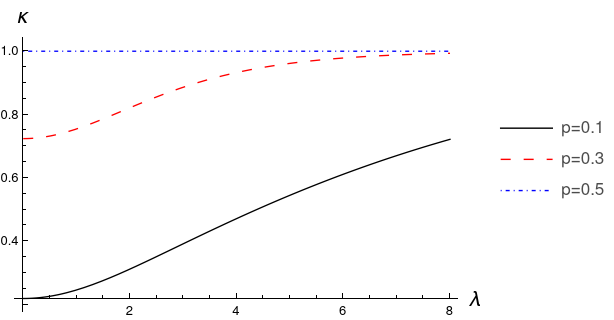
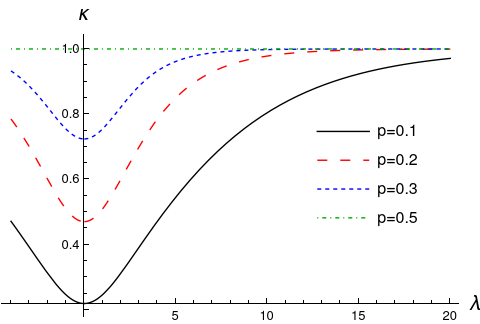
iinverted lagmult signs

diff --git a/notes/log/maxent/maxent_properties.tex b/notes/log/maxent/maxent_properties.tex
@@ -29,28 +29,29 @@ con $\hat{l}=(\sin{\beta},\cos{\beta},0)$, y satisface
 \end{equation}
 Construyendo $\mcV=V\otimes V$, podemos expresar al estado de máxima entropía de dos formas equivalentes,
 \begin{align}\label{eq:MaxEntTwoExpr}
-  \boxed{\varrho_{max}(\rho)=\frac{1}{Z}\text{exp}(-\lambda\mcV\hat{G}_{3}\mcV^{\dag})} && \boxed{\varrho_{max}(\rho)=\frac{1}{Z}\text{exp}(-\sum_{i}\lambda_{i}\hat{G}_{i})}
-\end{align} 
+  \boxed{\varrho_{max}(\rho)=\frac{1}{Z}\text{exp}(\lambda\mcV\hat{G}_{3}\mcV^{\dag})} && \boxed{\varrho_{max}(\rho)=\frac{1}{Z}\text{exp}(\sum_{i}\lambda_{i}\hat{G}_{i})}
+\end{align}
+Nótese que he invertido los signos de los multiplicadores de Lagrange. Esto es complétamente válido, y podría verse como que las restricciones se despejaron \textit{al revés} a la hora de aplicar el método de los multiplicadores de Lagrange.
 
 \subsection{El estado máxima entropía es separable}
 
 Sea $\rho_{z}$ un estado alineado en $z$ como en (\ref{eq:rhoz}), entonces por (\ref{eq:MaxEnt}) el estado de máxima entropía es:
 \begin{equation}\label{eq:MaxEntUgly}
-\varrho_{max}^{z}=\frac{1}{Z}\text{exp}(-\lambda\hat{G}_{3}),
+\varrho_{max}^{z}=\frac{1}{Z}\text{exp}(\lambda\hat{G}_{3}),
 \end{equation}
 donde $\hat{G}_{3}$ se define según (\ref{eq:Gop}). Como los dos términos que componen al operador comuntan entre sí, la exponencial puede separarse como
 \begin{align*}
-\varrho_{max}^{z}&=\frac{1}{Z}e^{-\lambda p\sigma_{3}\otimes\Id}e^{-\lambda(1-p)\Id\otimes\sigma_{3}}\\
-&=\frac{1}{Z}(e^{-\lambda p\sigma_{3}}\otimes\Id)( \Id\otimes e^{-\lambda(1-p)\sigma_{3}})\\
-&=\frac{1}{Z}(e^{-\lambda p\sigma_{3}}\otimes e^{-\lambda(1-p)\sigma_{3}}).\\
+\varrho_{max}^{z}&=\frac{1}{Z}e^{\lambda p\sigma_{3}\otimes\Id}e^{\lambda(1-p)\Id\otimes\sigma_{3}}\\
+&=\frac{1}{Z}(e^{\lambda p\sigma_{3}}\otimes\Id)( \Id\otimes e^{\lambda(1-p)\sigma_{3}})\\
+&=\frac{1}{Z}(e^{\lambda p\sigma_{3}}\otimes e^{\lambda(1-p)\sigma_{3}}).\\
 \end{align*}
 Si se separa a la función de partición como un producto de trazas $Z=Z_{1}Z_{2}$, al estado de máxima entropía se le puede escribir como:
 \begin{equation}\label{eq:MaxEntZ}
-\varrho_{max}^{z}=\frac{e^{-\lambda p\sigma_{3}}}{Z_{1}} \otimes \frac{e^{-\lambda(1-p)\sigma_{3}}}{Z_{2}}.
+\varrho_{max}^{z}=\frac{e^{\lambda p\sigma_{3}}}{Z_{1}} \otimes \frac{e^{\lambda(1-p)\sigma_{3}}}{Z_{2}}.
 \end{equation}
 Esto es válido para el estado alineado en $z$, pero retomando el resultado (\ref{eq:MaxEntTwoExpr}) y la relación (\ref{eq:VsigmazV}), el estado de máxima entropía compatible con un estado grueso arbitrario es
 \begin{equation}\label{eq:MaxEntSeparable}
-  \varrho_{max}=\frac{e^{-\lambda p(\hat{r}_{\rho}\cdot\vec{\sigma})}}{Z_{1}} \otimes \frac{e^{-\lambda(1-p)(\hat{r}_{\rho}\cdot\vec{\sigma})}}{Z_{2}}
+  \varrho_{max}=\frac{e^{\lambda p(\hat{r}_{\rho}\cdot\vec{\sigma})}}{Z_{1}} \otimes \frac{e^{\lambda(1-p)(\hat{r}_{\rho}\cdot\vec{\sigma})}}{Z_{2}}
 \end{equation}
 Por lo que el estado de máxima entropía compatible con un estado $\rho$ arbitrario es separable. Ahora, como las expresiones (\ref{eq:MaxEntTwoExpr}) son equivalentes, una vez más, usando (\ref{eq:VsigmazV}) podemos ver que
 \begin{align*}
@@ -65,7 +66,7 @@ así que
 \end{equation*}
 De tal forma que (\ref{eq:MaxEntSeparable}) puede escribirse en términos de los tres multiplicadores de Lagrange como:
 \begin{equation*}
-\varrho_{max}=\frac{e^{-p\sum_{i}\lambda_{i}\sigma_{i}}}{Z_{1}} \otimes \frac{e^{-(1-p)\sum_{i}\lambda_{i}\sigma_{i}}}{Z_{2}}
+\varrho_{max}=\frac{e^{p\sum_{i}\lambda_{i}\sigma_{i}}}{Z_{1}} \otimes \frac{e^{(1-p)\sum_{i}\lambda_{i}\sigma_{i}}}{Z_{2}}
 \end{equation*}
 ¿Qué significa que el estado de máxima entropía sea separable? ¿Qué interpretación tienen las matrices de densidad reducidad del estado de máxima entropía? La propiedad de separabilidad viene de que la información accesible al experimentalista no incluye las correlaciones entre los subsistemas. Los observables finos son combinaciones de operadores de la forma $\pauli{i}\otimes\Id$ y $\Id\otimes\pauli{j}$. Esto significa que lo que se reconstruye es una combinación lineal de las matrices de densidad reducidas correspondientes a cada subsistema. Por la construcción de la aplicación de grano grueso, cualquier sistema de matrices de densidad reducidas $\rho_{A}$ y $\rho_{B}$ da como resultado el mismo estado efectivo, sin importar qué tan factorizable o entrelazado esté (de nuevo, siempre y cuando las marices de densidad reducidas sean $\rho_{A}$ y $\rho_{B}$). Pues bien, como estas correlaciones se pierden a la hora de hacer las mediciones, en el estado de máxima entropía estas se hacen cero. En el caso estacionario esto no afecta, pero me preocupa que quizá no sea el mejor acercamiento para el caso dinámico. Me pregunto si habrá algo como una dinámica de máxima entropía. 
 
@@ -75,18 +76,18 @@ Hay algo interesante, y es que para el caso clásico, la distribución de máxim
 
 Ahora se usan dos cosas: que $\sum_{i}\lambda_{i}\sigma_{i}=\lambda(\hat{r}_{\rho}\cdot\vec{\sigma})$ con $\lambda=\sqrt{\sum \lambda_{i}^{2}}$, y que podemos subir $p$ y $(1-p)$ como potencias, así que
 \begin{align*}
-  \varrho_{max}=&\frac{e^{-p\sum_{i}\lambda_{i}\sigma_{i}}}{Z_{1}} \otimes \frac{e^{-(1-p)\sum_{i}\lambda_{i}\sigma_{i}}}{Z_{2}}\\
-  =&\frac{\qty(e^{-\sum_{i}\lambda_{i}\sigma_{i}})^{p} }{Z_{1}}\otimes \frac{\qty(e^{-\sum_{i}\lambda_{i}\sigma_{i}})^{1-p}}{Z_{2}}\\
-  =&\frac{\qty(e^{-\lambda(\hat{r}_{\rho}\cdot\vec{\sigma})})^{p}}{Z_{1}} \otimes \frac{\qty(e^{-\lambda(\hat{r}_{\rho}\cdot\vec{\sigma})})^{1-p}}{Z_{2}}\\
+  \varrho_{max}=&\frac{e^{p\sum_{i}\lambda_{i}\sigma_{i}}}{Z_{1}} \otimes \frac{e^{(1-p)\sum_{i}\lambda_{i}\sigma_{i}}}{Z_{2}}\\
+  =&\frac{\qty(e^{\sum_{i}\lambda_{i}\sigma_{i}})^{p} }{Z_{1}}\otimes \frac{\qty(e^{\sum_{i}\lambda_{i}\sigma_{i}})^{1-p}}{Z_{2}}\\
+  =&\frac{\qty(e^{\lambda(\hat{r}_{\rho}\cdot\vec{\sigma})})^{p}}{Z_{1}} \otimes \frac{\qty(e^{\lambda(\hat{r}_{\rho}\cdot\vec{\sigma})})^{1-p}}{Z_{2}}\\
 \end{align*}
 Expandiendo en la base de pauli, y factorizando un $\cosh{\lambda}$:
 \begin{align*}
-  \varrho_{max}=&\frac{\qty(\cosh{\lambda}(\Id-\tanh{\lambda}(\hat{r}_{\rho}\cdot\vec{\sigma})))^{p}}{\Tr[\qty(\cosh{\lambda}(\Id-\tanh{\lambda}(\hat{r}_{\rho}\cdot\vec{\sigma})))^{p}]} \otimes \frac{\qty(\cosh{\lambda}(\Id-\tanh{\lambda}(\hat{r}_{\rho}\cdot\vec{\sigma})))^{1-p}}{\Tr[\qty(\cosh{\lambda}(\Id-\tanh{\lambda}(\hat{r}_{\rho}\cdot\vec{\sigma})))^{1-p}]}\\
-  =&\frac{\qty(\Id-\tanh{\lambda}(\hat{r}_{\rho}\cdot\vec{\sigma}))^{p}}{\Tr[\qty(\Id-\tanh{\lambda}(\hat{r}_{\rho}\cdot\vec{\sigma}))^{p}]} \otimes \frac{\qty(\Id-\tanh{\lambda}(\hat{r}_{\rho}\cdot\vec{\sigma}))^{1-p}}{\Tr[\qty(\Id-\tanh{\lambda}(\hat{r}_{\rho}\cdot\vec{\sigma}))^{1-p}]}
+  \varrho_{max}=&\frac{\qty(\cosh{\lambda}(\Id+\tanh{\lambda}(\hat{r}_{\rho}\cdot\vec{\sigma})))^{p}}{\Tr[\qty(\cosh{\lambda}(\Id+\tanh{\lambda}(\hat{r}_{\rho}\cdot\vec{\sigma})))^{p}]} \otimes \frac{\qty(\cosh{\lambda}(\Id+\tanh{\lambda}(\hat{r}_{\rho}\cdot\vec{\sigma})))^{1-p}}{\Tr[\qty(\cosh{\lambda}(\Id+\tanh{\lambda}(\hat{r}_{\rho}\cdot\vec{\sigma})))^{1-p}]}\\
+  =&\frac{\qty(\Id+\tanh{\lambda}(\hat{r}_{\rho}\cdot\vec{\sigma}))^{p}}{\Tr[\qty(\Id+\tanh{\lambda}(\hat{r}_{\rho}\cdot\vec{\sigma}))^{p}]} \otimes \frac{\qty(\Id+\tanh{\lambda}(\hat{r}_{\rho}\cdot\vec{\sigma}))^{1-p}}{\Tr[\qty(\Id+\tanh{\lambda}(\hat{r}_{\rho}\cdot\vec{\sigma}))^{1-p}]}
 \end{align*}
 Definimos
 \begin{equation}
-  \boxed{\rho_{max}=\frac{1}{2}(\Id-\tanh{\lambda}(\hat{r}_{\rho}\cdot\vec{\sigma}))}
+  \boxed{\rho_{max}=\frac{1}{2}(\Id+\tanh{\lambda}(\hat{r}_{\rho}\cdot\vec{\sigma}))}
 \end{equation}
 de tal manera que 
 \begin{equation}\label{eq:MaxEntSeparableLM}
@@ -96,7 +97,7 @@ de tal manera que
 \subsection{El estado de máxima entropía bajo la aplicación de grano grueso}\label{sec:CG(MaxEnt)}
 El problema de la ecuación (\ref{eq:MaxEntSeparable}) es que el estado de máxima entropía está en términos de los multiplicadores de Lagrange (en particular, de $\lambda$), en lugar de cantidades medibles. Si por alguna razón tuviéramos que resignarnos a trabajar con el estado en términos de $\lambda$, será necesario conocer la expresión del estado efectivo. Para hallarla, basta con pasar (\ref{eq:MaxEntSeparableLM}) por la aplicación de grano grueso.
 \begin{equation}\label{eq:CG(MaxEntZ)1}
-    \rho=\frac{1}{Z}\CG{\varrho_{max}}=p\frac{e^{-\lambda p(\hat{r}_{\rho}\cdot\vec{\sigma})}}{Z_{1}}+(1-p)\frac{e^{-\lambda (1-p)(\hat{r}_{\rho}\cdot\vec{\sigma})}}{Z_{2}}.
+    \rho=\frac{1}{Z}\CG{\varrho_{max}}=p\frac{e^{\lambda p(\hat{r}_{\rho}\cdot\vec{\sigma})}}{Z_{1}}+(1-p)\frac{e^{\lambda (1-p)(\hat{r}_{\rho}\cdot\vec{\sigma})}}{Z_{2}}.
 \end{equation}
 Sustituyendo
 \begin{equation}\label{eq:PauliVectorExp}
@@ -104,32 +105,32 @@ Sustituyendo
 \end{equation}
 ¿en (\ref{eq:CG(MaxEntZ)1}) se encuentra la expresión del estado efectivo en términos de la base de Pauli
 \begin{align*}
-    \rho_{z}&=p\frac{\Id \cosh{\lambda p}-(\hat{r}_{\rho}\cdot\vec{\sigma})\sinh{\lambda p}}{Z_{1}}+(1-p)\frac{\Id \cosh{\lambda (1-p)}-(\hat{r}_{\rho}\cdot\vec{\sigma})\sinh{\lambda (1-p)}}{Z_{2}}\\
-    &=p\frac{1}{2}(\Id \frac{2\cosh{\lambda p}}{Z_{1}}-(\hat{r}_{\rho}\cdot\vec{\sigma})\frac{2\sinh{\lambda p}}{Z_{1}})+(1-p)\frac{1}{2}(\Id \frac{2\cosh{\lambda (1-p)}}{Z_{2}}-(\hat{r}_{\rho}\cdot\vec{\sigma})\frac{2\sinh{\lambda (1-p)}}{Z_{2}}).
+    \rho_{z}&=p\frac{\Id \cosh{\lambda p}+(\hat{r}_{\rho}\cdot\vec{\sigma})\sinh{\lambda p}}{Z_{1}}+(1-p)\frac{\Id \cosh{\lambda (1-p)}+(\hat{r}_{\rho}\cdot\vec{\sigma})\sinh{\lambda (1-p)}}{Z_{2}}\\
+    &=p\frac{1}{2}(\Id \frac{2\cosh{\lambda p}}{Z_{1}}+(\hat{r}_{\rho}\cdot\vec{\sigma})\frac{2\sinh{\lambda p}}{Z_{1}})+(1-p)\frac{1}{2}(\Id \frac{2\cosh{\lambda (1-p)}}{Z_{2}}+(\hat{r}_{\rho}\cdot\vec{\sigma})\frac{2\sinh{\lambda (1-p)}}{Z_{2}}).
 \end{align*}
 Para que esto sea de la forma $\rho=\sum_{i}p_{i}\rho_{i}$ es necesario que $Z_{1}=2\cosh{\lambda p}$ y $Z_{2}=2\cosh{\lambda (1-p)}$ (cosa que se puede comprobar). El estado efectivo en términos de $\lambda $ es
 \begin{equation}\label{eq:CG(MaxEntZ)2}
-    \rho_{z}=p\frac{1}{2}(\Id+(\hat{r}_{\rho}\cdot\vec{\sigma})\tanh{(-\lambda p)})+(1-p)\frac{1}{2}(\Id+(\hat{r}_{\rho}\cdot\vec{\sigma})\tanh{(-\lambda (1-p))}).
+    \rho_{z}=p\frac{1}{2}(\Id+(\hat{r}_{\rho}\cdot\vec{\sigma})\tanh{(\lambda p)})+(1-p)\frac{1}{2}(\Id+(\hat{r}_{\rho}\cdot\vec{\sigma})\tanh{(\lambda (1-p))}).
 \end{equation}
 juntando los términos
 \begin{equation}\label{eq:CG(MaxEnt)}
-  \boxed{\rho=\frac{1}{2}[\Id+(\hat{r}_{\rho}\cdot\vec{\sigma})(p\tanh{-\lambda p}+(1-p)\tanh{-\lambda (1-p)})]}
+  \boxed{\rho=\frac{1}{2}[\Id+(\hat{r}_{\rho}\cdot\vec{\sigma})(p\tanh{\lambda p}+(1-p)\tanh{\lambda (1-p)})]}
 \end{equation}
 Todo lo anterior nos permite obtener otra expresión para $\varrho_{max}$:
 \begin{equation*}
-  \varrho_{max}=\frac{1}{2}(\Id+(\hat{r}_{\rho}\cdot\vec{\sigma})\tanh{(-\lambda p)})\otimes\frac{1}{2}(\Id+(\hat{r}_{\rho}\cdot\vec{\sigma})\tanh{(-\lambda (1-p))})
+  \varrho_{max}=\frac{1}{2}\qty[\Id+(\hat{r}_{\rho}\cdot\vec{\sigma})\tanh{(\lambda p)}]\otimes\frac{1}{2}\qty[\Id+(\hat{r}_{\rho}\cdot\vec{\sigma})\tanh{(\lambda (1-p))}]
 \end{equation*}
 \subsection{El estado de máxima entropía en términos de la pureza}
 
 La ecuación (\ref{eq:CG(MaxEnt)}) permite expresar la pureza $\text{Pu}(\rho)$ en términos de $\lambda$. Recordando que $\text{Pu}(\rho)=\frac{1}{2}(r_{\rho}^{2}+1)$,
 \begin{equation}\label{eq:RzTanh}
-    \boxed{r_{\rho}=-(p\tanh{\lambda p}+(1-p)\tanh{\lambda (1-p)})}  
+    \boxed{r_{\rho}=(p\tanh{\lambda p}+(1-p)\tanh{\lambda (1-p)})}  
 \end{equation}
 La ecuación anterior, fijada $p$, es una suma de dos funciones inyectivas, y como tal, es inyectiva también. Esto significa que existe la función inversa. La figura \ref{fig:rzinv} muestra la forma de $r_{\rho}(\lambda)$ para valores selectos de $p$. Después de una breve inspección de (\ref{eq:RzTanh}) se concluyen las siguientes cosas:
 \begin{itemize}
 \item la superficie es simétrica respecto al plano $p=0.5$
 \item la superficie es antisimétrica  respecto al plano $\lambda=0$ i.e. $r_{\rho}(\lambda,p)=-r_{\rho}(-\lambda,p)$
-\item $\text{sgn}(\lambda)=-\text{sgn}(r_{\rho})$
+\item $\text{sgn}(\lambda)=\text{sgn}(r_{\rho})$
 \end{itemize}
 \begin{figure}[h!]
 \centering
@@ -142,17 +143,17 @@ La ecuación anterior, fijada $p$, es una suma de dos funciones inyectivas, y co
 
 Considerando el caso $p=0$ o $p=1$, la ecuación (\ref{eq:RzTanh}) se reduce a 
 \begin{equation}
-r_{\rho}=-\tanh{\lambda}
+r_{\rho}=\tanh{\lambda}
 \end{equation}
-de manera que $\lambda=-\text{arctanh}(r_{\rho})$.
+de manera que $\lambda=\text{arctanh}(r_{\rho})$.
 
 Si $p=\frac{1}{2}$, la ecuación (\ref{eq:RzTanh}) se reduce a
 \begin{equation}
-r_{\rho}=-\tanh\frac{1}{2}\lambda
+r_{\rho}=\tanh\frac{1}{2}\lambda
 \end{equation}
-de manera que $\lambda=-\text{arctanh}(2r_{z})$.
+de manera que $\lambda=\text{arctanh}(2r_{z})$.
 En el límite $(1-p)\rightarrow 0$,
 \begin{equation}
-  r_{\rho}=-(\tanh{\lambda}+p(\lambda\sech^{2}{\lambda}+\tanh{\lambda}))
+  r_{\rho}=(\tanh{\lambda}+p(\lambda\sech^{2}{\lambda}+\tanh{\lambda}))
 \end{equation}
 \newpage

diff --git a/notes/log/maxent/maxent_UtensorV.tex b/notes/log/maxent/maxent_UtensorV.tex
@@ -1,12 +1,13 @@
 \section{Evolución unitaria separable $\mcU=U_{1}\otimes U_{2}$}
+
 Consideramos una unitaria $\mcU=U_{1}\otimes U_{2}$ que evoluciona en el tiempo como $\mcU_{t}=(U_{1}\otimes U_{2})^{t}=U_{1}^{t}\otimes U_{2}^{t}$. Retomando la ecuación (\ref{eq:MaxEntSeparable}), el estado efectivo evolucionado, en términos de un multiplicador de Lagrange y la unitaria $V$ que lo relaciona a un estado alineado en $z$ con la misma pureza es
 \begin{align*}
-    \CG{(U_{1}^{t}\otimes U_{2}^{t})\varrho_{max}(U_{1}^{t}\otimes U_{2}^{t})^{\dag}}&=p\frac{1}{Z_{1}}U_{1}^{t}V e^{-\lambda p \sigma_{z}}V^{\dag}(U_{1}^t)^{\dag}+(1-p)\frac{1}{Z_{2}}U_{2}^{t}Ve^{-\lambda (1-p)\sigma_{z}}V^{\dag}(U_{2}^t)^{\dag}\\
-    &=p\frac{1}{Z_{1}}U_{1}^{t}V e^{-\lambda p \sigma_{z}}(U_{1}^tV)^{\dag}+(1-p)\frac{1}{Z_{2}}U_{2}^{t}Ve^{-\lambda (1-p)\sigma_{z}}(U_{2}^tV)^{\dag}\\
+    \CG{(U_{1}^{t}\otimes U_{2}^{t})\varrho_{max}(U_{1}^{t}\otimes U_{2}^{t})^{\dag}}&=p\frac{1}{Z_{1}}U_{1}^{t}V e^{\lambda p \sigma_{z}}V^{\dag}(U_{1}^t)^{\dag}+(1-p)\frac{1}{Z_{2}}U_{2}^{t}Ve^{\lambda (1-p)\sigma_{z}}V^{\dag}(U_{2}^t)^{\dag}\\
+    &=p\frac{1}{Z_{1}}U_{1}^{t}V e^{\lambda p \sigma_{z}}(U_{1}^tV)^{\dag}+(1-p)\frac{1}{Z_{2}}U_{2}^{t}Ve^{\lambda (1-p)\sigma_{z}}(U_{2}^tV)^{\dag}\\
 \end{align*}
 Por un lado, podemos dejar a las unitarias $V$ dentro de las exponenciales, de tal forma que:
 \begin{equation}
-    \CG{(U_{1}^{t}\otimes U_{2}^{t})\varrho_{max}(U_{1}^{t}\otimes U_{2}^{t})^{\dag}}=p\frac{1}{2}(\Id+U_{1}^{t}(\hat{r}_{\rho}\cdot\vec{\sigma})(U_{1}^{t})^{\dag}\tanh{(-\lambda p)})+(1-p)\frac{1}{2}(\Id+U_{2}^{t}(\hat{r}_{\rho}\cdot\vec{\sigma})(U_{2}^{t})^{\dag}\tanh{(-\lambda (1-p))}).
+    \CG{(U_{1}^{t}\otimes U_{2}^{t})\varrho_{max}(U_{1}^{t}\otimes U_{2}^{t})^{\dag}}=p\frac{1}{2}(\Id+U_{1}^{t}(\hat{r}_{\rho}\cdot\vec{\sigma})(U_{1}^{t})^{\dag}\tanh{(\lambda p)})+(1-p)\frac{1}{2}(\Id+U_{2}^{t}(\hat{r}_{\rho}\cdot\vec{\sigma})(U_{2}^{t})^{\dag}\tanh{(\lambda (1-p))}).
 \end{equation}
 El resultado puede verse como las partes que componen al estado efectivo alineado en $z$ evolucionados por una composición de unitarias, que es otra unitaria. Las unitarias $U_{j}$ pueden escribirse como $e^{-i\theta_{j} \hat{n}_{j}\cdot\vec{\sigma}}$, mientras que $V=e^{i\alpha\hat{l}\cdot\vec{\sigma}}$ con $\hat{l}=(\cos{\beta},\sin{\beta},0)$, luego $U_{i}V=e^{i\zeta_{j} \hat{k}_{j}\cdot \vec{\sigma}}$ donde:
 \begin{align*}
@@ -19,12 +20,12 @@ Total que la dinámica se ve como
 \end{equation}
 Donde $W_{j}=U_{j}V$. Cada parte del estado efectivo se ve rotado de manera diferente. Las partes que se rotan son las partes que surgen al pasar al estado de máxima entropía por la aplicación de grano grueso. Pensando en esto, \notaAd{Regresar a la parte correspondiente: \ref{sec:CG(MaxEnt)}}. Aunque a mi me gusta la forma
 \begin{equation}\label{eq:SeparableDynamics}
-    \boxed{\rho\xrightarrow{\mcU=U_{1}\otimes U_{2}} p\frac{1}{Z_{1}}U_{1}e^{-\lambda_{3}p\hat{r}_{\rho}\cdot\vec{\sigma}}U_{1}^{\dag}+(1-p)\frac{1}{Z_{2}}U_{2}e^{-\lambda_{3}(1-p)\hat{r}_{\rho}\cdot\vec{\sigma}}U_{2}^{\dag}}.
+    \boxed{\rho\xrightarrow{\mcU=U_{1}\otimes U_{2}} p\frac{1}{Z_{1}}U_{1}e^{\lambda_{3}p\hat{r}_{\rho}\cdot\vec{\sigma}}U_{1}^{\dag}+(1-p)\frac{1}{Z_{2}}U_{2}e^{\lambda_{3}(1-p)\hat{r}_{\rho}\cdot\vec{\sigma}}U_{2}^{\dag}}.
 \end{equation}
 
 Si el estado inicial tiene componente en $z$ nomás
 \begin{equation}\label{eq:SeparableZDynamics}
-\CG{(U_{1}^{t}\otimes U_{2}^{t})\varrho_{max}(U_{1}^{t}\otimes U_{2}^{t})^{\dag}}=p\frac{1}{Z_{1}}e^{-\lambda p U_{1}^{t}\sigma_{z}(U_{1}^t)^{\dag}}+(1-p)\frac{1}{Z_{2}}e^{-\lambda (1-p)U_{2}^{t}\sigma_{z}(U_{2}^t)^{\dag}}
+\CG{(U_{1}^{t}\otimes U_{2}^{t})\varrho_{max}(U_{1}^{t}\otimes U_{2}^{t})^{\dag}}=p\frac{1}{Z_{1}}e^{\lambda p U_{1}^{t}\sigma_{z}(U_{1}^t)^{\dag}}+(1-p)\frac{1}{Z_{2}}e^{\lambda (1-p)U_{2}^{t}\sigma_{z}(U_{2}^t)^{\dag}}
 \end{equation}
 Incluyendo el tiempo y haciendo el cambio $t\theta\rightarrow t$, los exponentes dentro de (\ref{eq:SeparableDynamics}) se desarrollan como:
 \begin{align*}
@@ -41,9 +42,9 @@ A notar que si $t=0$ no hay evolución. Luego, en el límite $t\ll 1$:
 \subsection{El caso $U_{1}=\Id$ o $U_{2}=\Id$}
 Retomando a expresión (\ref{eq:SeparableDynamics}), y en virtud de (\ref{eq:PauliVectorExp}), vemos que el estado efectivo inicial $\rho$ puede verse como una combinación de dos operadores con vector de Bloch con dirección $\hat{r}_{\rho}$. El vector de Bloch de $\rho$ se ve modificado al ser una de sus dos componentes (paralelas) rotada. La rotación siendo $U_{1}$ \notaAd{Creo que dependo mucho de las parametrizaciones de Bloch para entender lo que está pasadno, ¿qué sucede en el espacio de operadores de densidad?}. En general:
 \begin{equation}\label{eq:SeparableDynamicsUxI}
-    \rho\xrightarrow{\mcU=U_{1}\otimes \Id} p\frac{1}{Z_{1}}U_{1}e^{-\lambda_{3}p\hat{r}_{\rho}\cdot\vec{\sigma}}U_{1}^{\dag}+(1-p)\frac{1}{Z_{2}}e^{-\lambda_{3}(1-p)\hat{r}_{\rho}\cdot\vec{\sigma}}
+    \rho\xrightarrow{\mcU=U_{1}\otimes \Id} p\frac{1}{Z_{1}}U_{1}e^{\lambda p\hat{r}_{\rho}\cdot\vec{\sigma}}U_{1}^{\dag}+(1-p)\frac{1}{Z_{2}}e^{\lambda(1-p)\hat{r}_{\rho}\cdot\vec{\sigma}}
 \end{equation}
-En términos del vector de Bloch, denotando $r_{A}=p\tan(-p\lambda_{3})$, $r_{B}=(1-p)\tan(-(1-p)\lambda_{3})$, y $O$ la rotación generada por $U_{1}$:
+En términos del vector de Bloch, denotando $r_{A}=p\tan(p\lambda)$, $r_{B}=(1-p)\tan((1-p)\lambda)$, y $O$ la rotación generada por $U_{1}$:
 \begin{equation}
     r\hat{r}_{\rho}\xrightarrow{\mcU=U_{1}\otimes \Id}r_{A}O\hat{r}_{\rho}+r_{B}\hat{r}_{\rho}=O(r\hat{r}_{\rho}-r_{B}\hat{r}_{\rho})+r_{B}\hat{r}_{\rho}
 \end{equation}\label{eq:SeparableDynamicsUxIBloch}
@@ -70,7 +71,7 @@ En el espacio de operadores de densidad, esto equivale a insertar una fase relat
 \end{equation}
 El estado grueso siente el cambio de fase relativa en su primera componente \notaAd{¿Qué son las trazas del MaxEnt?}.
 \begin{equation}
-    \rho\xrightarrow{\mcU=e^{it\sigma_{z}}\otimes \Id} p\frac{1}{Z_{1}}e^{it\sigma_{z}}e^{-\lambda_{3}p\hat{r}_{\rho}\cdot\vec{\sigma}}e^{-it\sigma_{z}}+(1-p)\frac{1}{Z_{2}}e^{-\lambda_{3}(1-p)\hat{r}_{\rho}\cdot\vec{\sigma}}
+    \rho\xrightarrow{\mcU=e^{it\sigma_{z}}\otimes \Id} p\frac{1}{Z_{1}}e^{it\sigma_{z}}e^{\lambda_{3}p\hat{r}_{\rho}\cdot\vec{\sigma}}e^{-it\sigma_{z}}+(1-p)\frac{1}{Z_{2}}e^{\lambda_{3}(1-p)\hat{r}_{\rho}\cdot\vec{\sigma}}
 \end{equation}
 
 \begin{figure}[h!]
@@ -128,9 +129,9 @@ La transformación es una rotación respecto al eje $(a,b,0)$. Al aplicarse sobr
 
 Quizá el caso más sencillo. La simetría de la unitaria permite factorizarla:
 \begin{align*}
-\CG{(U^{t}\otimes U^{t})\varrho_{max}(U^{t}\otimes U^{t})^{\dag}}&=p\frac{1}{Z_{1}}e^{-\lambda p U^{t}\sigma_{z}(U^t)^{\dag}}+(1-p)\frac{1}{Z_{2}}e^{-\lambda (1-p)U^{t}\sigma_{z}(U^t)^{\dag}}\\
-&=p\frac{1}{Z_{1}}U^{t}e^{-\lambda p \sigma_{z}}(U^t)^{\dag}+(1-p)\frac{1}{Z_{2}}U^{t}e^{-\lambda (1-p)\sigma_{z}}(U^t)^{\dag}\\
-&=U^{t}\qty(p\frac{1}{Z_{1}}e^{-\lambda p \sigma_{z}}+(1-p)\frac{1}{Z_{2}}e^{-\lambda (1-p)\sigma_{z}})(U^t)^{\dag}\\
+\CG{(U^{t}\otimes U^{t})\varrho_{max}(U^{t}\otimes U^{t})^{\dag}}&=p\frac{1}{Z_{1}}e^{\lambda p U^{t}\sigma_{z}(U^t)^{\dag}}+(1-p)\frac{1}{Z_{2}}e^{\lambda (1-p)U^{t}\sigma_{z}(U^t)^{\dag}}\\
+&=p\frac{1}{Z_{1}}U^{t}e^{\lambda p \sigma_{z}}(U^t)^{\dag}+(1-p)\frac{1}{Z_{2}}U^{t}e^{\lambda (1-p)\sigma_{z}}(U^t)^{\dag}\\
+&=U^{t}\qty(p\frac{1}{Z_{1}}e^{\lambda p \sigma_{z}}+(1-p)\frac{1}{Z_{2}}e^{\lambda (1-p)\sigma_{z}})(U^t)^{\dag}\\
 \end{align*}
 La dinámica efectiva tiene la forma:
 \begin{equation}

diff --git a/notes/log/maxent/maxent_swap.tex b/notes/log/maxent/maxent_swap.tex
@@ -5,10 +5,10 @@ En esta sección se desarrollan resultados analíticos para una evolución unita
 
 Utilizando la expresión (\ref{eq:MaxEntSeparable}), se puede pasar tanto a $\varrho_{max}(0)$ como a $\varrho_{max}(1)$ a través de la aplicación de grano grueso. El resultado $\CG{\varrho_{max}(0)}$ corresponde al estado grueso inicial, pero en términos de $\lambda$. Así:
 \begin{equation}
-\rho(0)=\frac{1}{2}[\Id+(\hat{r}_{\rho}\cdot\vec{\sigma})(p\tanh{-\lambda p}+(1-p)\tanh{-\lambda (1-p)})],
+\rho(0)=\frac{1}{2}[\Id+(\hat{r}_{\rho}\cdot\vec{\sigma})(p\tanh{\lambda p}+(1-p)\tanh{\lambda (1-p)})],
 \end{equation}
 \begin{equation}
-\rho(t=1)=\frac{1}{2}[\Id+(\hat{r}_{\rho}\cdot\vec{\sigma})((1-p)\tanh{-\lambda p}+p\tanh{-\lambda (1-p)})].
+\rho(t=1)=\frac{1}{2}[\Id+(\hat{r}_{\rho}\cdot\vec{\sigma})((1-p)\tanh{\lambda p}+p\tanh{\lambda (1-p)})].
 \end{equation}
 Vemos que ambos estados tienen la misma orientación pero pureza distinta. Esto significa que el efecto del \textsc{SWAP} subyacente sobre la esfera de Bloch es comprimir al estado efectivo inicial con un coeficiente $\kappa_{1}$ tal que
 \begin{equation}\label{eq:SWAPFactor}
@@ -42,6 +42,12 @@ en la que $\vec{c}=0$, y $M=OS$ con $O=\Id$ y $S=\kappa_{1}(\vec{r})\Id$, de tal
   \vec{r}\rightarrow \kappa_{1}(\vec{r})\vec{r}
 \end{equation*}
 nos daríamos cuenta que la transformación no es afín, y por esto, el proceso no puede ser descrito a través del formalismo de las operaciones cuánticas (no tiene representación en operadores de Kraus) \cite{Chuang}.
+  \begin{figure}[h!]
+    \centering
+    \includegraphics[width=0.9\linewidth]{maxent/figures/ContractionFactorSWAP_2D_both.png}
+    \caption{Factor de compresión $\kappa_{1}$ como función de $r_{\rho}$ (der.) y como función de $\lambda$ (izq.), para diferentes valores de $p$.}
+    \label{fig:SWAPFactor2Drl}
+  \end{figure}
 \subsubsection{Caso $p=\frac{1}{2}$}
 
 Aunque es posible repetir todas las cuentas desde la contrucción del estado de máxima entropía, haciendo $p=\frac{1}{2}$, basta con ver que el factor (\eqref{eq:SWAPFactor}) es $1$ en dicho caso. Así, todos los estado gruesos son puntos fijos bajo una evolución subyacente SWAP con aplicación de grano grueso con parámetro $p=\frac{1}{2}$.
@@ -72,7 +78,7 @@ S^{t}=\begin{pmatrix}
 \end{equation}
 Con ayuda de Mathematica pude aplicar este operador para obtener que
 \begin{equation}
-  \rho(t)=\frac{1}{2}\{\Id-(\hat{r_{\rho}}\cdot\vec{\sigma})[((1-p)\cos^{2}{\frac{\pi t}{2}}+p\sin^{2}{\frac{\pi t}{2}})\tanh{p\lambda}+(p\cos^{2}{\frac{\pi t}{2}}+(1-p)\sin^{2}{\frac{\pi t}{2}})\tanh{(1-p)\lambda}]\}.
+  \rho(t)=\frac{1}{2}\{\Id+(\hat{r_{\rho}}\cdot\vec{\sigma})[((1-p)\cos^{2}{\frac{\pi t}{2}}+p\sin^{2}{\frac{\pi t}{2}})\tanh{p\lambda}+(p\cos^{2}{\frac{\pi t}{2}}+(1-p)\sin^{2}{\frac{\pi t}{2}})\tanh{(1-p)\lambda}]\}.
 \end{equation}
 De esto, el factor de compresión dependiente del tiempo es
 \begin{equation}\label{eq:SWAPFactort}
@@ -102,11 +108,11 @@ De esto, el factor de compresión dependiente del tiempo es
   \end{figure}
 En términos del valor esperado del observable $\sigma_{z}$, la evolución del estado se da como
 \begin{equation}
-  \expval{\sigma_{z}(t)}=\kappa_{t}^{\rho}\cos{\alpha}
+  \expval{\sigma_{z}(t)}=\kappa_{t}^{\rho}\expval{\sigma_{z}(0)}
 \end{equation}
 que puede escribirse, también, como las probabilidades de que $\rho(t)$ se halle en el estado $\ket{0}$ o $\ket{1}$
  \begin{align}
-  \bra{0}\rho(t)\ket{0}=\frac{1}{2}(1+\kappa_{t}^{\rho}\cos{\alpha}) && \bra{1}\rho(t)\ket{1}=\frac{1}{2}(1-\kappa_{t}^{\rho}\cos{\alpha})
+  \bra{0}\rho(t)\ket{0}=\frac{1}{2}(1+\kappa_{t}^{\rho}\expval{\sigma_{z}(0)}) && \bra{1}\rho(t)\ket{1}=\frac{1}{2}(1-\kappa_{t}^{\rho}\expval{\sigma_{z}(0)}
  \end{align}
  donde la dependencia temporal está completamente contenida dentro del factor $\kappa_{t}^{\rho}$. 
 \newpage

diff --git a/notes/thesis/chapter1/maxent.tex b/notes/thesis/chapter1/maxent.tex
@@ -84,7 +84,13 @@ nos interesa hallar qué operador de densidad es el que mejor descibe a nuestro 
 \begin{equation}\label{eq:TraceRestriction}
     \Tr(\rho)=1.
 \end{equation}
-Una vez más se utiliza el método de los multiplicadores de Lagrange, de manera análoga a como se hizo en el caso clásico. El estado de máxima entropía compatible con las observaciones experimentales es entonces
+Una vez más se utiliza el método de los multiplicadores de Lagrange, de manera análoga a como se hizo en el caso clásico. Esta vez, la Lagrangiana
+\begin{equation*}
+    \mcL=-S(\rho)+\sum_{j}\lambda_{j}\qty(\expval{\hat{A}_{j}}-\Tr(\rho \hat{A}_{j}))+\mu\qty(\Tr(\rho)-1)
+\end{equation*}
+
+
+El estado de máxima entropía compatible con las observaciones experimentales es entonces
 \begin{equation*}
     \rho=\frac{e^{-\sum_{j} \lambda_{j} \hat{A}_{j}}}{Z}.
 \end{equation*}

diff --git a/README.md b/README.md
@@ -5,8 +5,7 @@ This is my license thesis' repository
 </p>
 
 TO DO LIST
- 1. Invert LagMult signs.
- 22. Find evolution of expectation values. Sa-Do
+ 1. Find evolution of expectation values. Sa-Do
  31. Find evolution of entropy. Sa-Do
  29. Finish thermodynamic quantum maxent case. Lu
  27. Complete CG section on thesis. Mi
@@ -37,3 +36,4 @@ COMPLETED TASKS
  14. ~~Explore relationship between the parts of the maxent and the effective state~~&#x2611;[9dd5d9b](https://github.com/ACGuerrero/tesis-adan/commit/9dd5d9b4b2cc6b84f930ab46a601a0d73985a985)
  2. ~~Maybe add comment on how different observables lead to different MaxEnts~~&#x2611;[9dd5d9b](https://github.com/ACGuerrero/tesis-adan/commit/9dd5d9b4b2cc6b84f930ab46a601a0d73985a985)
  32. ~~Fix UxV graphs. Add curve of no-error~~&#x2611;
+ 22. ~~Invert LagMult signs~~&#x2611;
